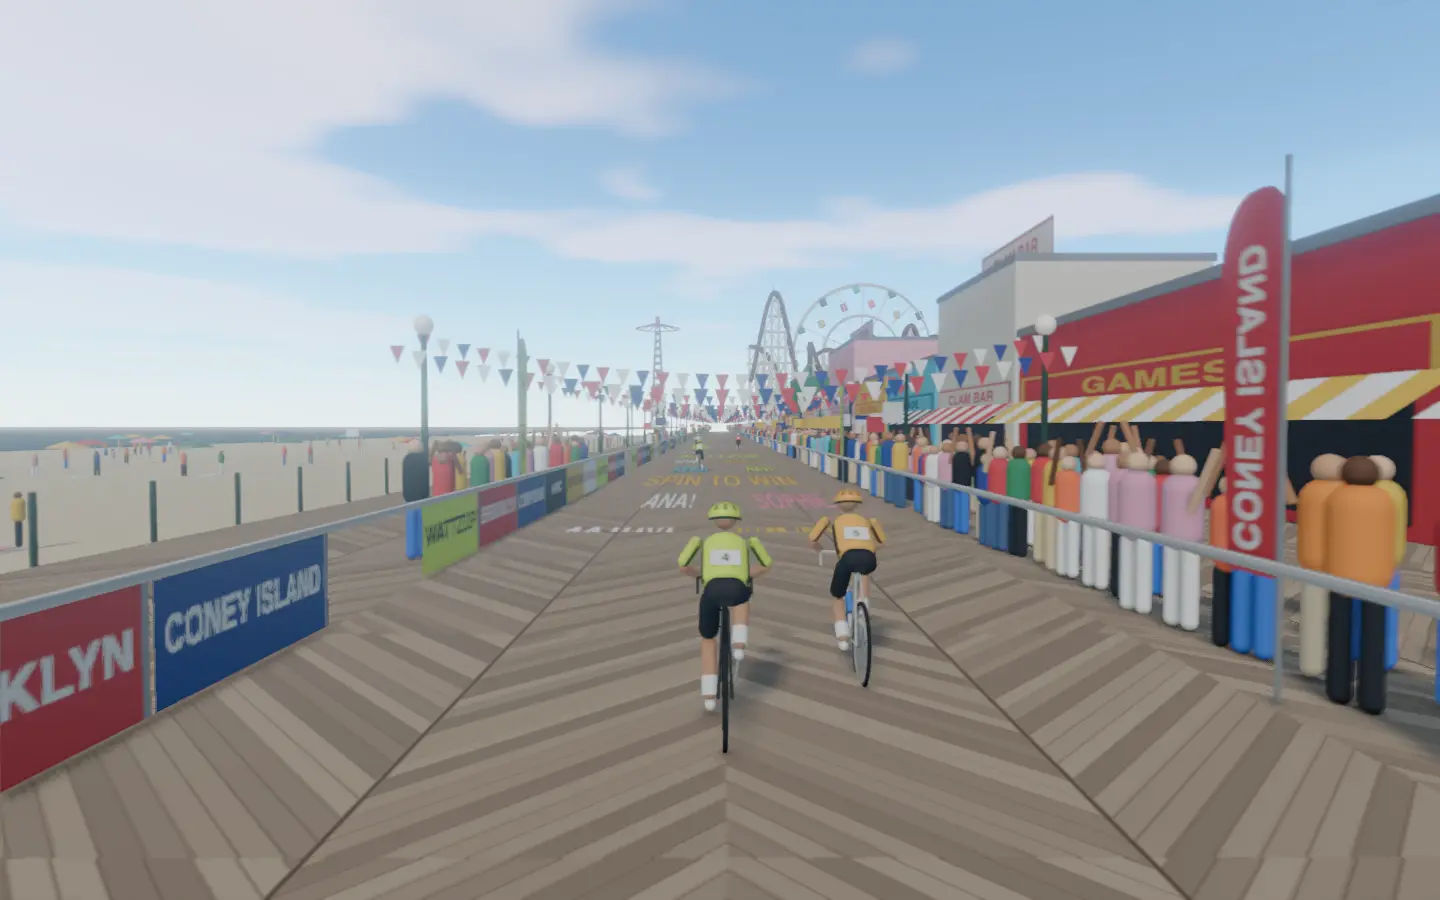
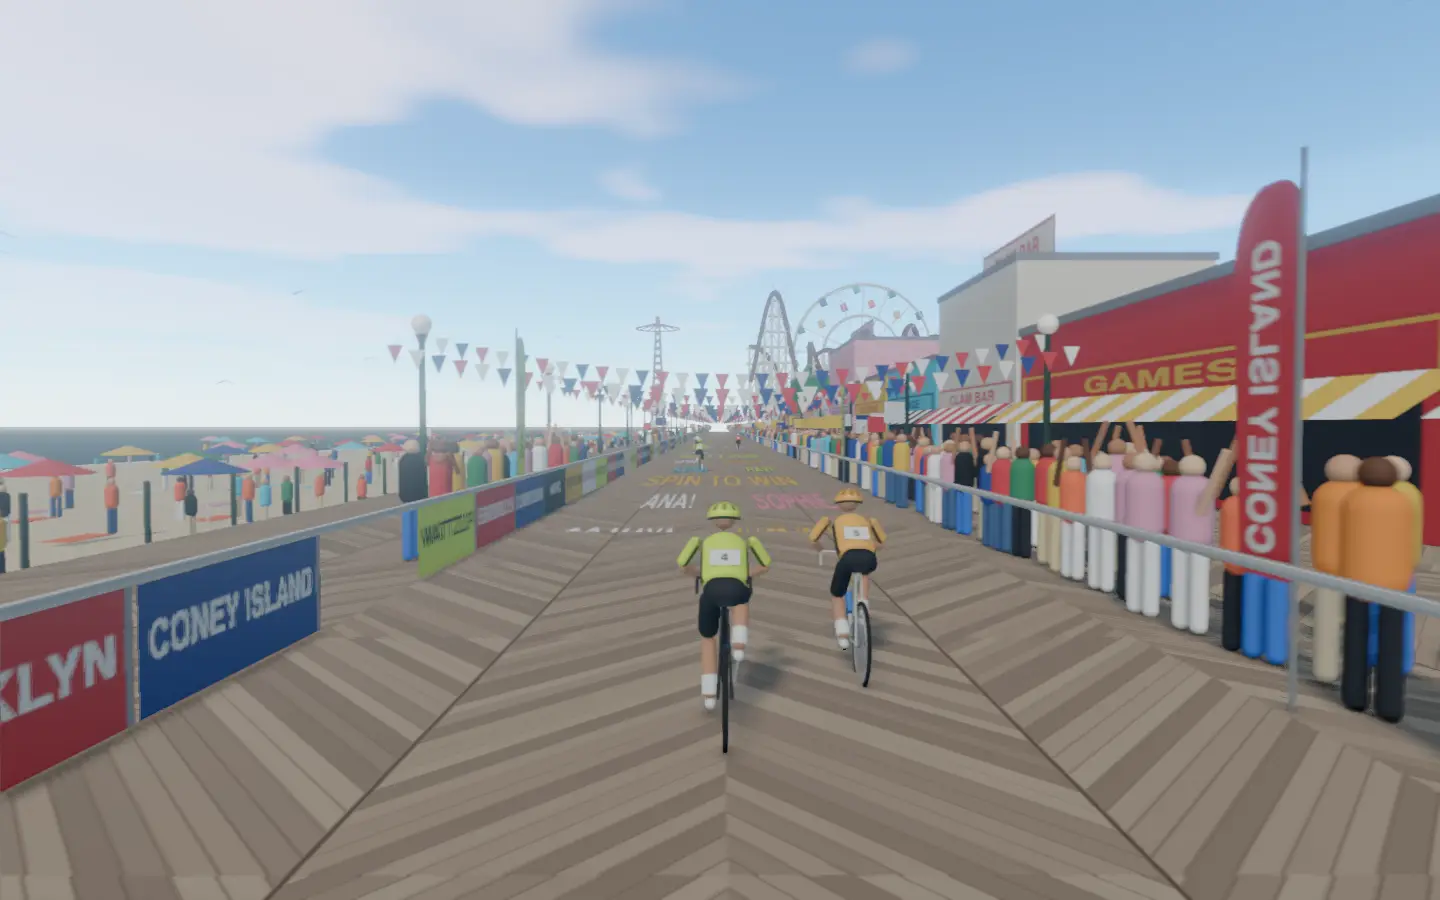
Pack Coney Island's beach for a summer afternoon

diff --git a/frontend/projects/wattzup/src/app/core/world-coney.ts b/frontend/projects/wattzup/src/app/core/world-coney.ts
@@ -60,7 +60,7 @@ const RAIL = 10;
 const SHOPS = 12;
 /** The beach lies this far below the planks, and runs out to the surf. */
 const SAND = -1.4;
-const SURF = 110;
+const SURF = 62;
 /** The horizon this far ahead. */
 const AHEAD = 220;
 const HAZE = 0xd8e2ea;
@@ -335,8 +335,9 @@ export class ConeyStreet implements SceneStreet {
       const holder = new Group();
       const b = new BoxBuilder();
       const people: [number, number][] = [];
-      for (let n = 0; n < 9; n++) {
-        const x = -RAIL - 6 - random() * (SURF - RAIL - 14);
+      // Packed thickest under the railing, thinning toward the water.
+      for (let n = 0; n < 26; n++) {
+        const x = -RAIL - 3 - random() ** 1.5 * (SURF - RAIL - 9);
         const z = -random() * CHUNK;
         const u = new Mesh(canopy, umbrellas[Math.floor(random() * umbrellas.length)]!);
         const p = new Mesh(pole, white);
@@ -347,9 +348,20 @@ export class ConeyStreet implements SceneStreet {
         b.box(towels[n % towels.length]!, [0.9, 0.03, 1.8], [x + 1.2, SAND + 0.02, z + 0.4]);
         people.push([x + 1.5, z - 0.6], [x - 1 + random() * 2, z + 1.5]);
       }
+      // Bathers wading in the surf, waist deep.
+      const wading: [number, number][] = [];
+      for (let n = 0; n < 10; n++) wading.push([-SURF - 1 - random() * 7, -random() * CHUNK]);
+      // Gulls wheeling over the sand.
+      for (let n = 0; n < 4; n++) {
+        const x = -RAIL - 6 - random() * 30;
+        const y = SAND + 7 + random() * 7;
+        const z = -random() * CHUNK;
+        b.box(white, [0.8, 0.05, 0.28], [x - 0.36, y + 0.12, z], 0.35);
+        b.box(white, [0.8, 0.05, 0.28], [x + 0.36, y + 0.12, z], -0.35);
+      }
       if (k % 2 === 0) {
         // A lifeguard chair: four white legs, the seat high up, a red rescue float.
-        const x = -RAIL - 30;
+        const x = -RAIL - 22;
         for (const [dx, dz] of [
           [-0.5, -0.5],
           [0.5, -0.5],
@@ -363,9 +375,13 @@ export class ConeyStreet implements SceneStreet {
         b.box(umbrellas[0]!, [0.25, 0.9, 0.12], [x + 0.7, SAND + 1.6, -19.4]);
       }
       holder.add(b.build(this.disposables));
-      const figures = new Figures(holder, this.disposables, people.length, SUMMER, 5831 + k);
+      const all = people.length + wading.length;
+      const figures = new Figures(holder, this.disposables, all, SUMMER, 5831 + k);
       people.forEach(([x, z], i) =>
         figures.set(i, x, SAND, z, random() * Math.PI * 2, 0.9 + random() * 0.15),
+      );
+      wading.forEach(([x, z], i) =>
+        figures.set(people.length + i, x, SAND - 1.3, z, random() * Math.PI * 2, 0.95),
       );
       figures.commit();
       this.group.add(holder);

diff --git a/docs/class-worlds.md b/docs/class-worlds.md
@@ -61,7 +61,7 @@ Every class in `frontend/public/classes.json`, with its World Ride scene. Render
 | 55 | Spin to Win Cadence Session | Lee Valley Velodrome | 80% | The pale pine boards of London's Olympic velodrome sweep up into the steep banked bends under the bright arena lights and the curved timber roof, as the packed stands roar above the fence and the teams wait with their bikes in the infield. The minute's warm-up rolls round the black line, the one-minute efforts lift the cadence up the banking toward the stayers' line, and the long efforts of three and a half minutes hold the spin down the straights before the easy minutes drop back to the blue band. |
 | 56 | High Intensity, Short Rest | Montreal Jazz Fest | 72% | Downtown stages and street crowds in summer; short rests between sets. |
 | 57 | Full Gas Sprints | Isle of Man Mountain Course (concept) |  | Stone walls and Snaefell's mountain road on the famous motorcycle course. |
-| 58 | Spin to Win | Coney Island Boardwalk | 76% | The weathered planks of the Riegelmann Boardwalk run along the Brooklyn shore under stars-and-stripes bunting, past the clam bars and arcades and above a beach crowded with umbrellas, toward the turning Wonder Wheel, the white lattice of the Cyclone and the red Parachute Jump. The three-minute warm-up rolls along the railing above the sand, the opening minute lifts the pace past the clam bars, and the long efforts of two and three minutes push for the Wonder Wheel before the quick-spinning minutes between them roll past the arcades. |
+| 58 | Spin to Win | Coney Island Boardwalk | 78% | The weathered planks of the Riegelmann Boardwalk run along the Brooklyn shore under stars-and-stripes bunting, past the clam bars and arcades and above a beach crowded with umbrellas, toward the turning Wonder Wheel, the white lattice of the Cyclone and the red Parachute Jump. The three-minute warm-up rolls along the railing above the sand, the opening minute lifts the pace past the clam bars, and the long efforts of two and three minutes push for the Wonder Wheel before the quick-spinning minutes between them roll past the arcades. |
 | 59 | Conquer the Climb | Stelvio Pass | 76% | Forty-eight hairpins stacked up an Italian alpine wall to the snowfields. |
 | 60 | HIIT Leg Buster | Philadelphia Art Museum Steps (concept) |  | Down the Parkway to the famous steps; every effort ends at the top, arms raised. |
 | 61 | 20 Minute Cardio: Lose Weight Fast | Santa Monica Pier (concept) |  | Ferris wheel, beach bike path and surfers below the pier. |

diff --git a/docs/detailed-designs/world-ride/draw-class-scene/README.md b/docs/detailed-designs/world-ride/draw-class-scene/README.md
@@ -568,7 +568,7 @@ None.
 - **Coney Island Boardwalk (`core/world-coney.ts`).** For `coney`, the Riegelmann Boardwalk on the Brooklyn shore on a summer afternoon:
   - the weathered planks laid in chevrons from the railing to the shopfronts, grey-brown with sun and salt, names chalked on them every 8 m (GO MAYA, BROOKLYN, SPIN and more) and every third row a slogan right across (CONEY ISLAND, SPIN TO WIN, WATTZUP), laid by the kit's painted rows;
   - the event's barriers (CONEY ISLAND, BROOKLYN, WATTZUP, BOARDWALK, SPIN TO WIN, NYC), the kit's feather flags along them, two banners across the boardwalk (CONEY ISLAND · SPIN TO WIN, WATTZUP · BROOKLYN), and iron lamp posts with white globes every 16 m on both sides, the kit's stars-and-stripes bunting strung between each pair;
-  - on the left the green iron railing, the crowd in knots along it so the beach shows, and below it the beach: umbrellas in stripes, towels, bathers standing and strolling (the kit's figures), a white lifeguard chair every 80 m, the surf 110 m out and the Atlantic beyond;
+  - on the left the green iron railing, the crowd in knots along it so the beach shows, and below it the packed summer beach: twenty-six umbrellas every 40 m, crowded thickest under the railing and thinning toward the water, towels, bathers standing and strolling (the kit's figures), gulls wheeling over the sand, a white lifeguard chair every 80 m, the surf 62 m out with bathers wading waist deep in it, and the Atlantic beyond;
   - on the right the crowd packed in front of the arcades and clam bars (CLAM BAR, ARCADE, HOT DOGS, ICE CREAM and more): one- and two-storey fronts in bright paint, each with its sign along the fascia, a striped awning over its counter and a sign on the roof of every third;
   - ahead, on the right, the Wonder Wheel turning slowly over the amusement park, its white rims, spokes and coloured cars on A-frame legs, the Cyclone beside the boardwalk in front of it, broadside to the rider: its dark track sloping in curves over its lift hill and hills on an open white lattice of bents and cross-braces, and at the end of the beach the red Parachute Jump, its tapering lattice tower and ring of arms. Everything along the boardwalk is hidden past 208 m.
 
